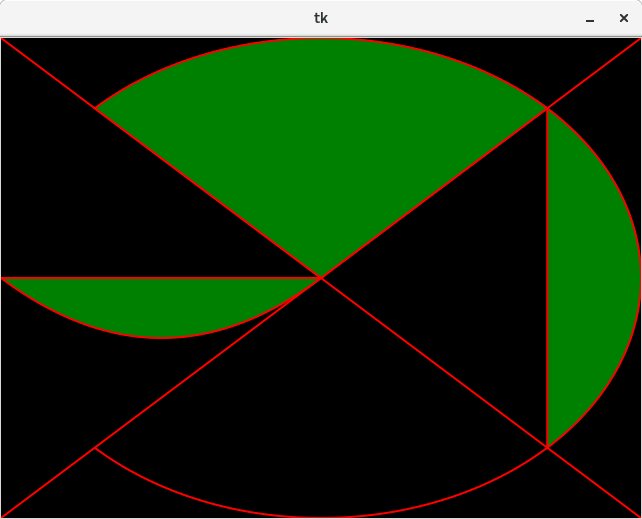
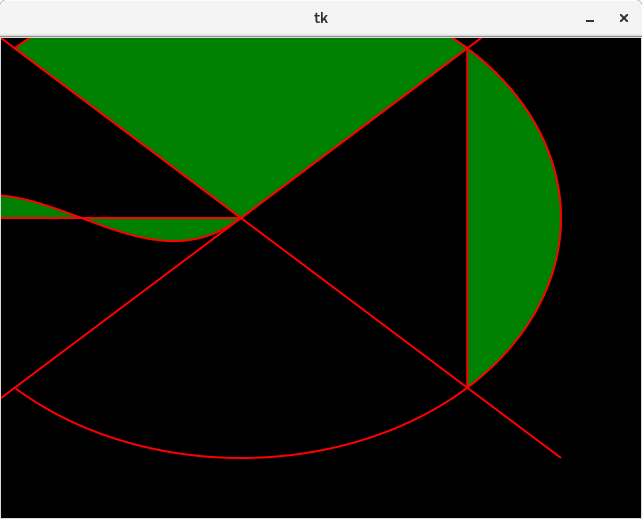
Fixed the Transform class and added extra features

diff --git a/transform.py b/transform.py
@@ -1,3 +1,4 @@
+from copy import deepcopy
 import math
 import numpy as np
 
@@ -7,9 +8,9 @@ class Transform(object):
 	"""
 	Affine transform
 	
-	| a b c |   | x0 |   | x1 |
-	| d e f | * | y0 | = | y1 |
-	| 0 0 1 |   | 1  |   | 1  |
+	| x1 |   | a b c |   | x0 |
+	| y1 | = | d e f | * | y0 |
+	| 1  |   | 0 0 1 |   | 1  |
 	
 	x1 = a * x0 + b * y0 + c
 	y1 = d * x0 + e * y0 + f
@@ -34,10 +35,7 @@ class Transform(object):
 		return not self.__eq__(other)
 	
 	def copy(self):
-		"""
-		Create a deep copy
-		"""
-		return Transform(*self.to_array())
+		return deepcopy(self)
 	
 	def to_array(self):
 		"""
@@ -51,56 +49,16 @@ class Transform(object):
 		"""
 		Apply the matrix to a point
 		"""
-		point = np.matmul(self.matrix, np.matrix([x, y, 1]))
+		point = np.matmul(self.matrix, np.matrix([x, y, 1]).getT())
 		return point[0], point[1]
 	
-	def set_shift(self, dx = 0, dy = 0):
+	def combine(self, other):
 		"""
-		Set the offset
+		Combine two transformations
 		"""
-		self.matrix[0:2, 2] = np.matrix([[dx], [dy]])
+		# Use matrix multiplication
+		self.matrix = np.matmul(self.matrix, other.matrix)
 		return self
-	
-	def shift(self, ddx, ddy):
-		"""
-		Shift the offset
-		"""
-		self.matrix[0:2, 2] += np.matrix([[ddx], [ddy]])
-		return self
-	
-	def scale(self, scalar):
-		"""
-		Adjust the scaling
-		"""
-		self.matrix[0:2, 0:2] *= scalar
-		return self
-	
-	def set_skew(self, a, b, c, d):
-		"""
-		Set the skew
-		"""
-		self.matrix[0:2, 0:2] = np.matrix([[a, b], [c, d]])
-		return self
-	
-	def skew(self, a, b, c, d):
-		"""
-		Adjust the skew
-		"""
-		self.matrix[0:2, 0:2] = np.matmul(self.matrix[0:2, 0:2], np.matrix([[a, b], [c, d]]))
-		return self
-	
-	def rotate(self, angle):
-		"""
-		Adjust the skew, counter clock-wise
-		"""
-		return self.skew(*rotation_matrix(angle).getA1())
-	
-	def rotate_about(self, xcenter, ycenter, angle):
-		"""
-		Rotate the transformation about a point
-		"""
-		reshift = np.matrix([[xcenter, ycenter]]) - np.matmul(rotation_matrix(angle), np.array([xcenter, ycenter]))
-		return self.rotate(-angle).shift(*reshift.getA1())
 	
 	@staticmethod
 	def IDENTITY():
@@ -114,32 +72,125 @@ class Transform(object):
 		"""
 		Creates a basic Shift transformation
 		"""
-		return Transform.IDENTITY().set_shift(dx, dy)
+		return Transform(1, 0, dx, 0, 1, dy)
+	
+	def set_shift(self, dx, dy):
+		"""
+		Set the offsets
+		"""
+		self.matrix[0:2, 2] = np.matrix([dx, dy]).getT()
+		return self
+	
+	def shift(self, ddx, ddy):
+		"""
+		Change the offsets
+		"""
+		self.matrix[0:2, 2] += np.matrix([ddx, ddy]).getT()
+		return self
 	
 	@staticmethod
-	def RESIZE(scalar):
+	def SKEW_ABOUT(xcenter, ycenter, a, b, c, d):
 		"""
-		Creates a basic Resize transformation
+		Creates a Skew transformation
 		"""
-		return Transform.IDENTITY().scale(scalar)
+		offset = np.matrix([0, 0]).getT()
+		if xcenter != 0. or ycenter != 0.:
+			# Compute the offset for unshift->transform->shift
+			center = np.matrix([xcenter, ycenter]).getT()
+			offset = (np.identity(2, dtype=float) - np.matrix([[a, b], [c, d]])) * center
+		return Transform(a, b, offset[0, 0], c, d, offset[1, 0])
+	
+	def skew_about(self, xcenter, ycenter, a, b, c, d):
+		"""
+		Changes the transform
+		"""
+		self.matrix = Transform.SKEW_ABOUT(xcenter, ycenter, a, b, c, d).combine(self).matrix
+		return self
 	
 	@staticmethod
 	def SKEW(a, b, c, d):
 		"""
 		Creates a basic Skew transformation
 		"""
-		return Transform.IDENTITY().set_skew(a, b, c, d)
+		return Transform.SKEW_ABOUT(0, 0, a, b, c, d)
+	
+	def set_skew(self, a, b, c, d):
+		"""
+		Sets the skew
+		"""
+		self.matrix[0:2, 0:2] = np.matrix([[a, b], [c, d]])
+		return self
+	
+	def skew(self, a, b, c, d):
+		"""
+		Changes the transform
+		"""
+		self.matrix = Transform.SKEW(a, b, c, d).combine(self).matrix
+		return self
 	
 	@staticmethod
-	def ROTATE(angle):
+	def RESIZE_ABOUT(xcenter, ycenter, scalar):
 		"""
-		Creates a basic Rotation transformation
+		Creates a Resize transformation
 		"""
-		return Transform.IDENTITY().rotate(angle)
+		return Transform.SKEW_ABOUT(xcenter, ycenter, scalar, 0, 0, scalar)
+	
+	def resize_about(self, xcenter, ycenter, scalar):
+		"""
+		Changes the transform
+		"""
+		self.matrix = Transform.RESIZE_ABOUT(xcenter, ycenter, scalar).combine(self).matrix
+		return self
+	
+	@staticmethod
+	def RESIZE(scalar):
+		"""
+		Creates a basic Resize transformation
+		"""
+		return Transform.RESIZE_ABOUT(0, 0, scalar)
+	
+	def set_resize(self, scalar):
+		"""
+		Sets the skew
+		"""
+		return self.set_skew(scalar, 0, 0, scalar)
+	
+	def resize(self, scalar):
+		"""
+		Changes the transform
+		"""
+		return self.skew(scalar, 0, 0, scalar)
 	
 	@staticmethod
 	def ROTATE_ABOUT(xcenter, ycenter, angle):
 		"""
 		Creates a Rotation transform
 		"""
-		return Transform.IDENTITY().rotate_about(xcenter, ycenter, angle)
+		return Transform.SKEW_ABOUT(xcenter, ycenter, *rotation_matrix(angle).getA1())
+	
+	def rotate_about(self, xcenter, ycenter, angle):
+		"""
+		Changes the transform
+		"""
+		self.matrix = Transform.ROTATE_ABOUT(xcenter, ycenter, angle).combine(self).matrix
+		return self
+	
+	@staticmethod
+	def ROTATE(angle):
+		"""
+		Creates a basic Rotation transformation
+		"""
+		return Transform.ROTATE_ABOUT(0, 0, angle)
+	
+	def set_rotate(angle):
+		"""
+		Sets the skew
+		"""
+		return self.set_skew(*rotation_matrix(angle).getA1())
+	
+	def rotate(angle):
+		"""
+		Changes the transform
+		"""
+		self.matrix = Transform.ROTATE(angle).combine(self).matrix
+		return self

diff --git a/shape.py b/shape.py
@@ -1,5 +1,6 @@
 import aggdraw
 from colour import Color
+from copy import deepcopy
 
 from helpers import *
 from transform import *
@@ -23,6 +24,9 @@ class Shape(object):
 		handle_config(self, kwargs)
 		#TODO Handle other color inputs (eg. name and hex)
 	
+	def copy(self):
+		return deepcopy(self)
+	
 	def draw(self, canvas, pen=None, brush=None):
 		"""
 		Draw the shape to the canvas
@@ -37,5 +41,5 @@ class Shape(object):
 		d.arc((0, 0, w, h), 45, 135, pen)
 		d.chord((0, 0, w, h), 135, 225, pen, brush)
 		d.pieslice((0, 0, w, h), 225, 315, pen, brush)
-		s = aggdraw.Symbol("M {} {} C {} {}, {} {}, {} {} Z".format(w/2,h/2,2*w/3,h/3,5*w/6,h/3,w,h/2))
+		s = aggdraw.Symbol("M {} {} C {} {}, {} {}, {} {} Z".format(w/2,h/2,2*w/3,h/3,5*w/6,2*h/3,w,h/2))
 		d.symbol((0, 0, w, h), s, pen, brush)

diff --git a/canvas.py b/canvas.py
@@ -1,4 +1,5 @@
 import aggdraw
+from copy import deepcopy
 from PIL import Image, ImageTk
 import Tkinter as tk
 
@@ -17,6 +18,9 @@ class Canvas(object):
 		extras = dict(width = width, height = height)
 		handle_config(self, kwargs, extras = extras);
 		self.data = np.zeros((self.height, self.width, 3))
+	
+	def copy(self):
+		return deepcopy(self)
 	
 	def draw(self, *shapes, **kwargs):
 		"""

diff --git a/test.py b/test.py
@@ -11,7 +11,7 @@ def main():
 	
 	# Tests
 	c = Canvas(w, h)
-	t = Transform.ROTATE_ABOUT(w / 2, h / 2, math.pi)
+	t = Transform.IDENTITY().shift(w / 8, h / 8).rotate_about(w / 2, h / 2, math.pi)
 	s = Shape(stroke_color = Color("red"), stroke_width = 2., fill_color = Color("green"), transform = t)
 	c.draw(s)
 	c.show()

diff --git a/test2.py b/test2.py
@@ -1,0 +1,8 @@
+import math
+from transform import *
+
+w, h = 640, 480
+
+print Transform.IDENTITY()
+print Transform.IDENTITY().shift(w / 4, 0)
+print Transform.IDENTITY().shift(w / 4, 0).rotate_about(w / 2, h / 2, math.pi)
